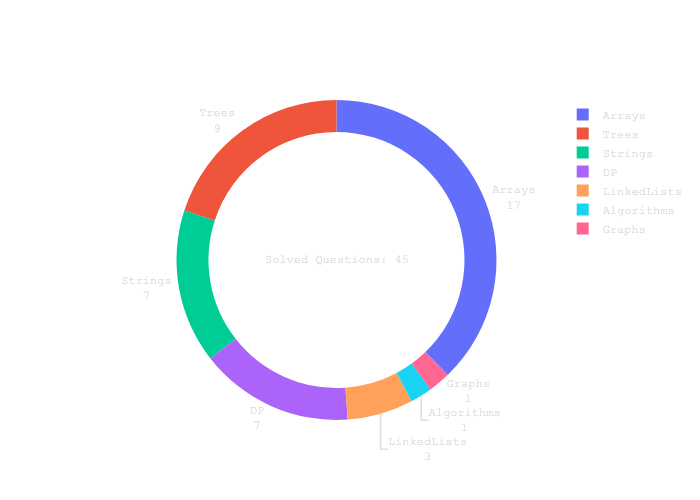
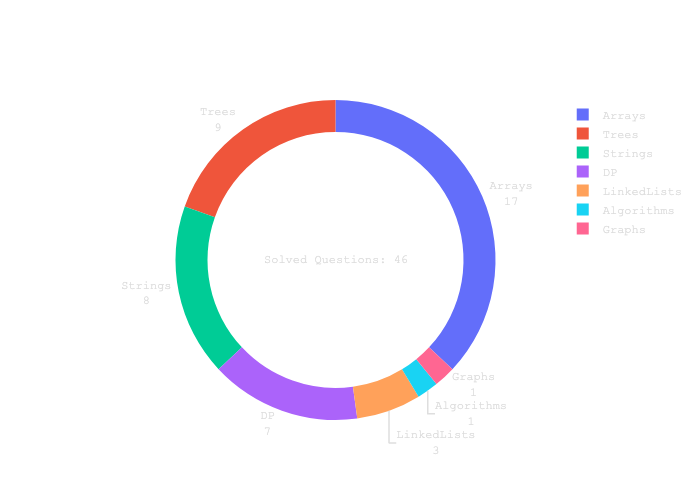
wordPattern

diff --git a/Strings/wordPattern.py b/Strings/wordPattern.py
@@ -1,0 +1,17 @@
+def wordPattern(pattern: str, s: str) -> bool:
+    words = s.split(" ")
+    if len(pattern) != len(words) or len(set(pattern)) != len(set(words)):
+        return False
+    d = {}
+    for i, char in enumerate(pattern):
+        if char in d:
+            if d[char] != words[i]:
+                return False
+        else:
+            d[char] = words[i]
+    print(d)
+    return True
+
+
+print(wordPattern("abba", "dog dog dog dog"))
+print(wordPattern("abab", "cat dog cat dog"))
